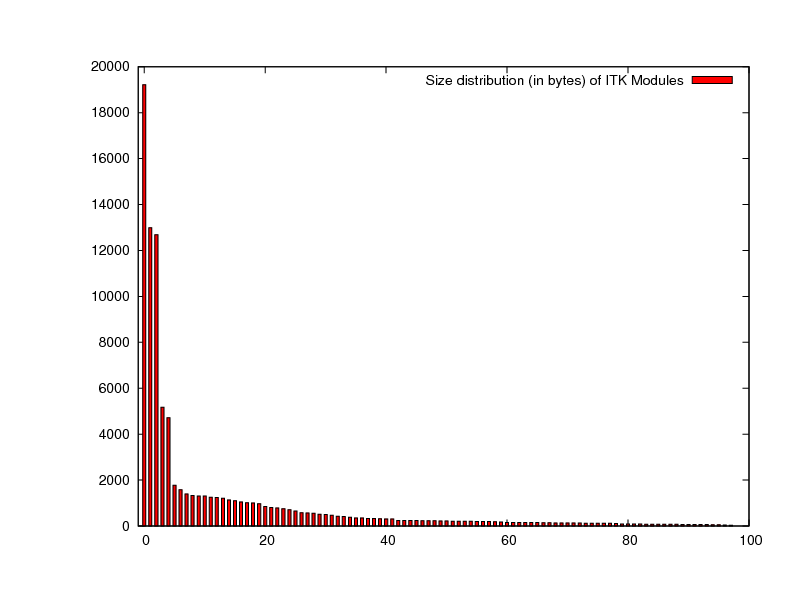
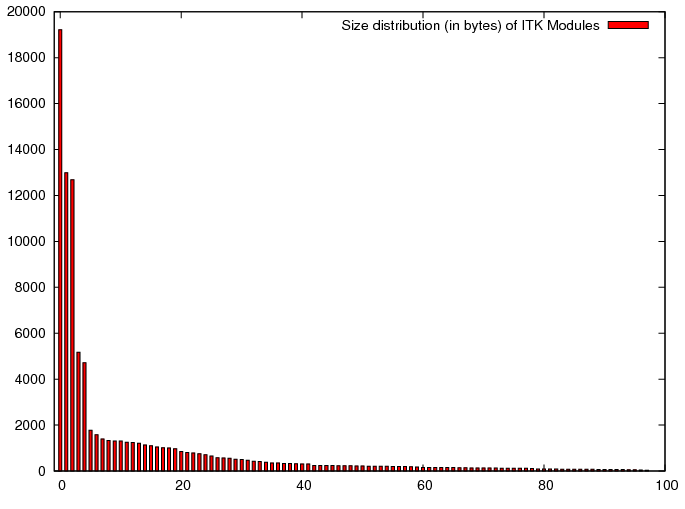
ENH: Style Modularization slides.

diff --git a/Documents/Tutorial/Modularization.tex b/Documents/Tutorial/Modularization.tex
@@ -1,54 +1,55 @@
+\section{Modularization}
+
 \begin{frame}
 \frametitle{Why Modularization}
 \begin{itemize}
 \item Growth management
-\pause
 \item Software quality improvement
-\pause
 \item Facilitating add-ons
-\pause
 \item Separate third party libraries
-\pause
 \item Optional Components
 \end{itemize}
 \end{frame}
 
-{
 \setbeamertemplate{navigation symbols}{}
-\setbeamertemplate{background canvas}{
-  \includegraphics[width=\paperwidth,height=\paperheight]{moduleSizePlot.pdf}
-}
+\setbeamercolor{background canvas}
 \begin{frame}[plain]
+\frametitle{Module sizes}
+\center
+\begin{center}
+\includegraphics[height=0.8\textheight]{moduleSizePlot.pdf}
+\end{center}
 \end{frame}
-}
 
-
-{
 \setbeamertemplate{navigation symbols}{}
-\setbeamertemplate{background canvas}{
-  \includegraphics[height=\paperheight]{moduleSizePlotNoThirdParty.pdf}
-}
+\setbeamercolor{background canvas}
 \begin{frame}[plain]
+\frametitle{Module sizes (no third party modules)}
+\center
+\begin{center}
+\includegraphics[height=0.8\textheight]{moduleSizePlotNoThirdParty.pdf}
+\end{center}
 \end{frame}
-}
 
-
-{
 \setbeamertemplate{navigation symbols}{}
-\setbeamertemplate{background canvas}{
-  \includegraphics[height=\paperheight]{moduleDependency.png}
-}
+\setbeamercolor{background canvas}
 \begin{frame}[plain]
+\frametitle{Visualize dependencies among modules}
+\center
+\begin{center}
+\includegraphics[height=0.8\textheight]{moduleDependency.png}
+\end{center}
 \end{frame}
-}
 
 
 \begin{frame}
 \frametitle{ITK Module Grouping}
 \begin{itemize}
-\item  How many groups?
+\item  12 groups, 98 modules and counting
 \pause
-\item  Grouping criteria
+\item  Group by module functionalities
+\pause
+\item  Achiving modules in groups
 \pause
 \end{itemize}
 \end{frame}
@@ -61,6 +62,8 @@
 \item  Module-by-module dashboard submission
 \pause
 \item  Code coverage per module
+\pause
+\item  Modulize  maintainance efforts
 \end{itemize}
 \end{frame}
 
@@ -86,7 +89,7 @@
 \pause
 \item  Module dependency: itk-module.cmake
 \pause
-\item  Add tests, \href{http://www.vtk.org/Wiki/ITK/Git/Develop/Data\#Workflow}{\textcolor{red}{add testing data}}
+\item  Add tests, \href{http://www.vtk.org/Wiki/ITK/Git/Develop/Data\#Workflow}{\textcolor{red}{\underline{add testing data}}}
 \pause
 \item  Documentation
 \end{itemize}
@@ -102,6 +105,9 @@
 \end{itemize}
 \end{frame}
 
-\centeredlargetext{white}{black}{
-Details about ITK Modularization can be found at \href{http://www.itk.org/Wiki/ITK\_Release\_4/Modularization}{\textcolor{red}{Wiki Page}}.
-}
+
+\begin{frame}
+\begin{itemize}
+\item  Details about ITK Modularization can be found at \href{http://www.itk.org/Wiki/ITK\_Release\_4/Modularization}{\textcolor{red}{\underline{Wiki Page}}}.
+\end{itemize}
+\end{frame}
